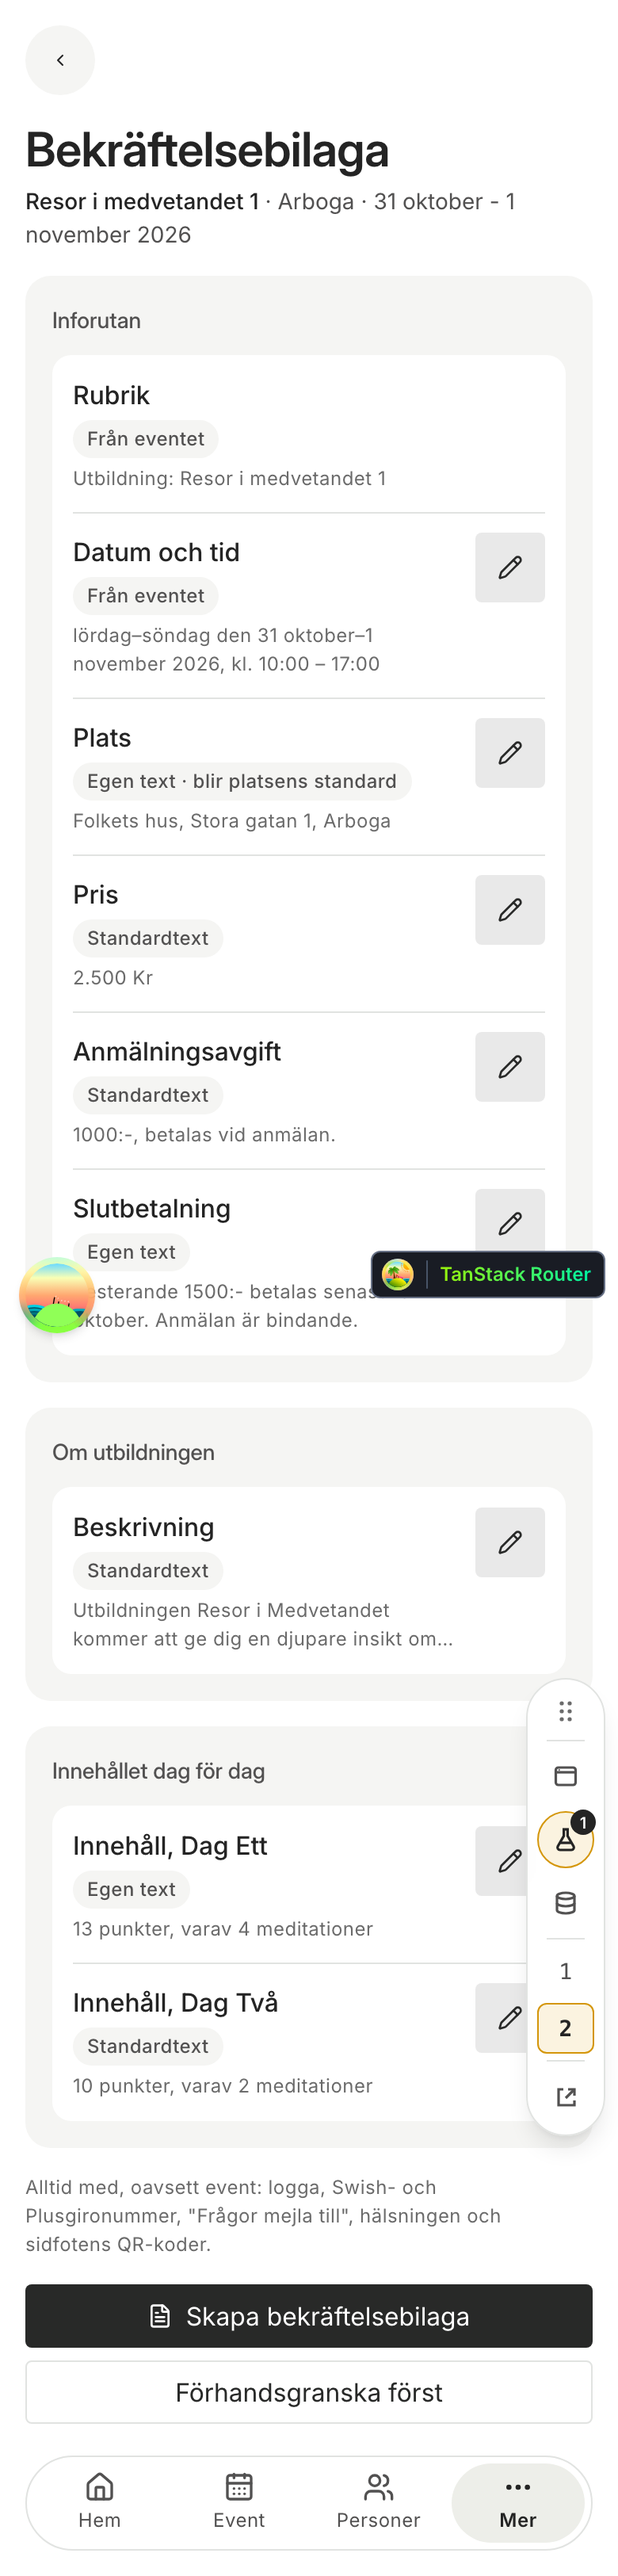
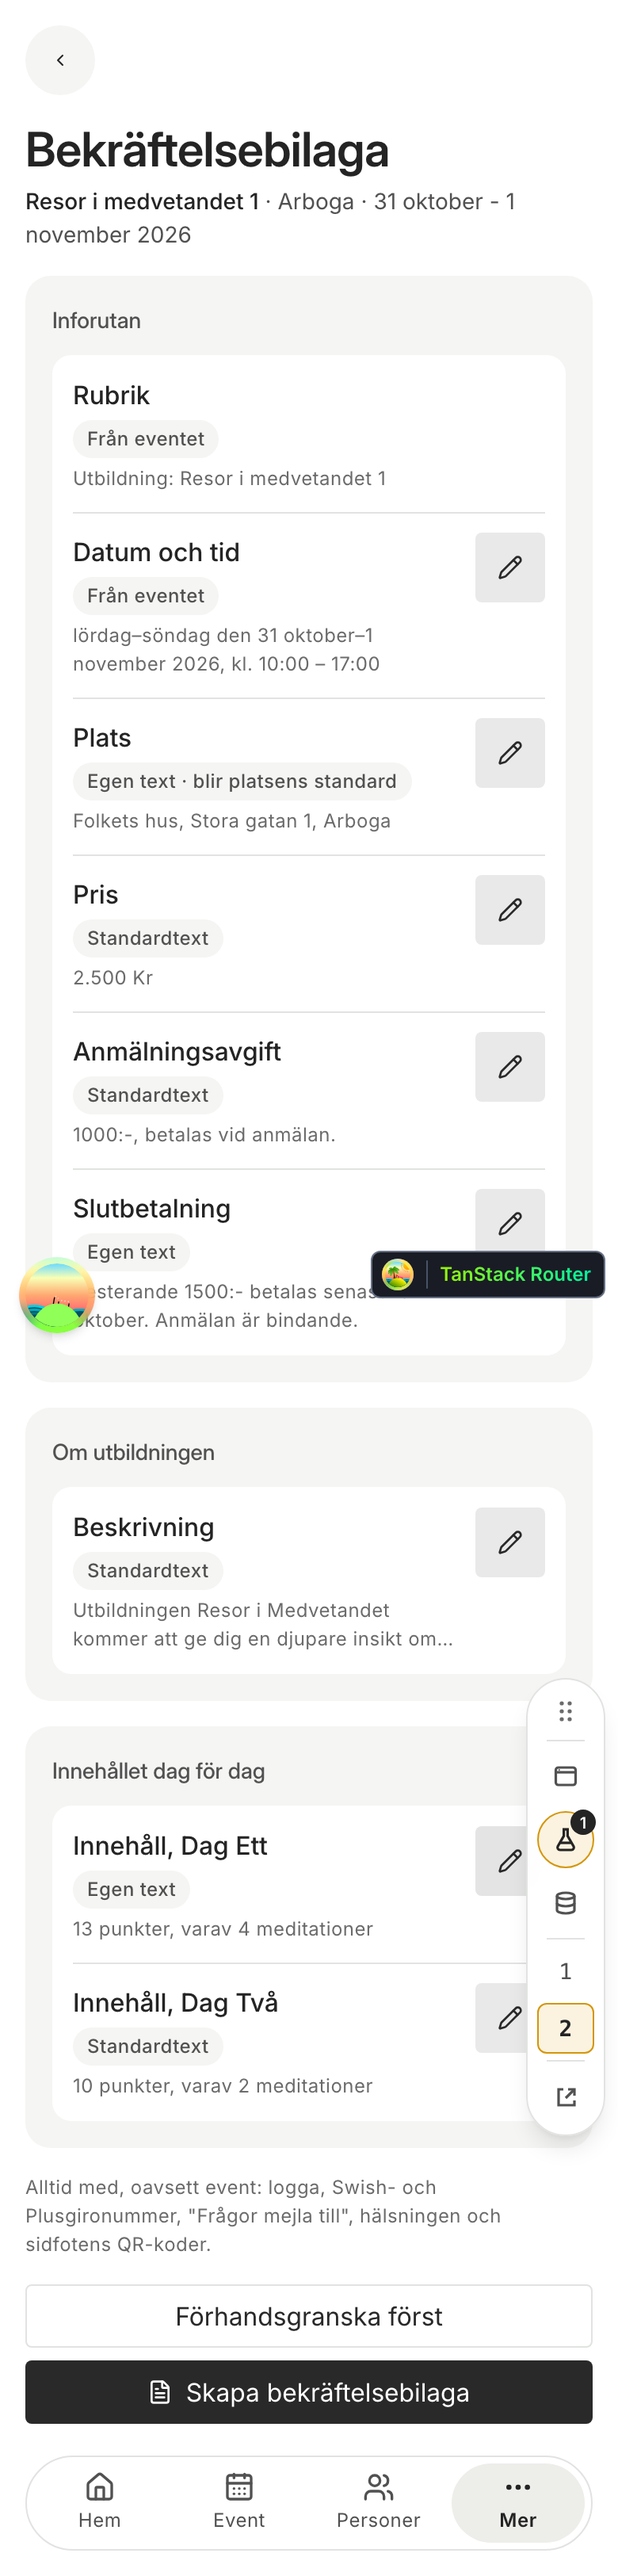
feat(proto): [PROTOTYPE, S108] genereringsvyn — varv 3, knappordning + adressfältets höjd
Förhandsgranska står före Skapa (primär sist), adressfältet två rader.

Changed region(s): [[0.0308, 0.8702, 0.9846, 0.9634]]

diff --git a/src/components/dokument/prototyp/GenereringsPrototyp.tsx b/src/components/dokument/prototyp/GenereringsPrototyp.tsx
@@ -1084,7 +1084,13 @@ function GenereringsVy({
                             hideLabel
                             value={r.text ?? ''}
                             onChange={(v) => sattText(r.def.id, v)}
-                            rows={r.def.id === 'beskrivning' ? 8 : r.def.kalla === 'event' ? 2 : 4}
+                            rows={
+                              r.def.id === 'beskrivning'
+                                ? 8
+                                : r.def.kalla === 'event' || r.def.id === 'plats'
+                                  ? 2
+                                  : 4
+                            }
                             placeholder={
                               r.def.id === 'slutbetalning'
                                 ? `Resterande ${EVENTINNEHALL.resterandeBelopp} betalas senast … Anmälan är bindande.`
@@ -1158,12 +1164,12 @@ function GenereringsVy({
       {resultat?.typ === 'fel' && <MessageBox intent="error">{resultat.text}</MessageBox>}
 
       <div className="flex flex-col gap-2">
+        <Button intent="secondary" emphasis="outline" onPress={() => oppnaDokument(false)}>
+          Förhandsgranska först
+        </Button>
         <Button intent="primary" onPress={() => oppnaDokument(true)}>
           <FileText aria-hidden="true" size={16} className="shrink-0" />
           Skapa {meta.namn.toLowerCase()}
-        </Button>
-        <Button intent="secondary" emphasis="outline" onPress={() => oppnaDokument(false)}>
-          Förhandsgranska först
         </Button>
       </div>
     </div>
